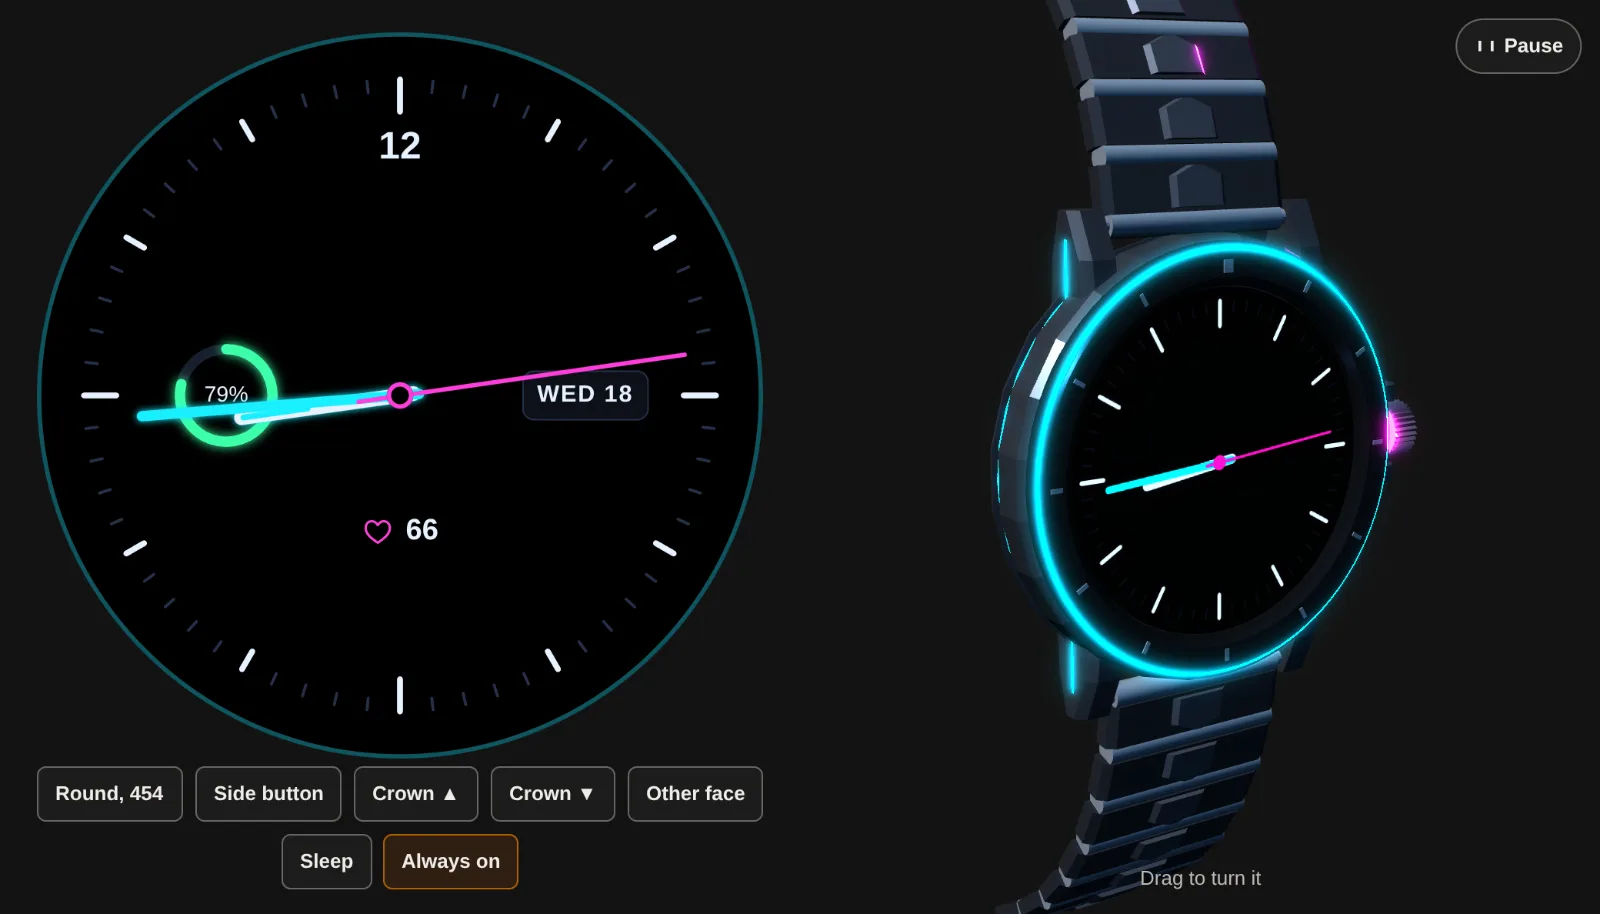
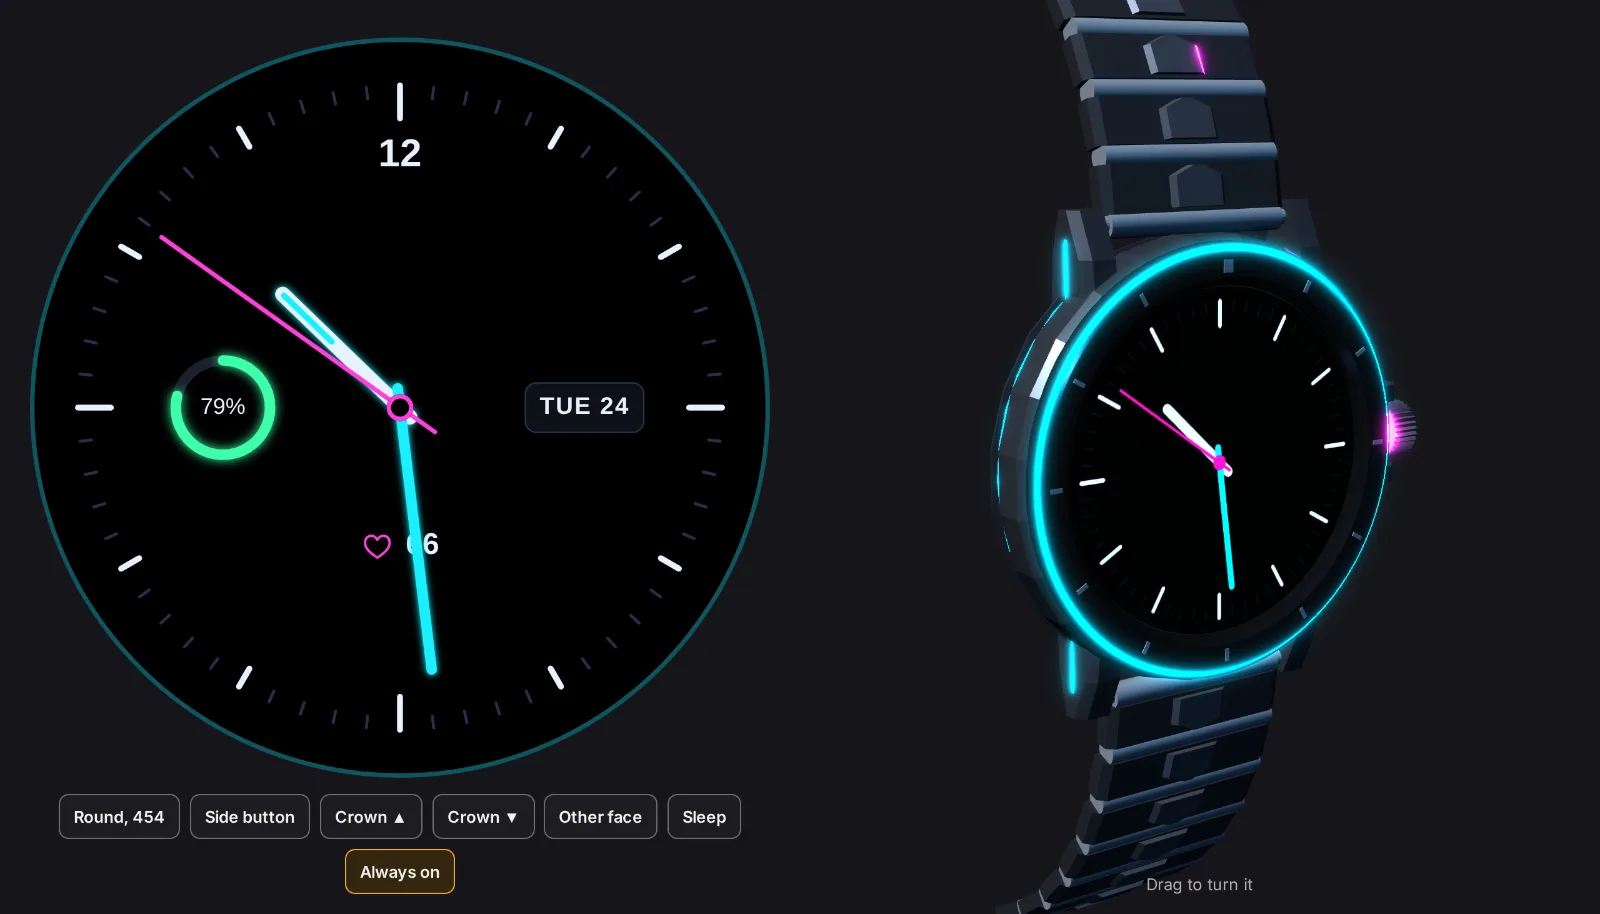
site: the front page shows the watch in 3D instead of the lighthouse
Its pictures are regenerated without the stale Pause baked in, and the
copy around it says what the reader can do with the watch.

diff --git a/site-ljos/bundle/Site/Landing.qml b/site-ljos/bundle/Site/Landing.qml
@@ -10,8 +10,8 @@ import "../nav.js" as Nav
 
 // The front page, read top to bottom: what Ljós is and a replay that
 // shows it, what that means for agents with a live app to drive, a shell
-// the reader changes here, TypeScript and the rest in a card each, a 3D
-// demo, how the project works, and where to go next.
+// the reader changes here, TypeScript and the rest in a card each, a
+// smartwatch in 3D, how the project works, and where to go next.
 // Existing QML is named once, as the way in; the porting page tells
 // that story. The words are the page's; how they stand (the hero beside
 // its live app, the sections on the grid, rising in as they are first
@@ -209,12 +209,14 @@ Column {
             wide: landing.wide
             eyebrow: t`Live in the page`
             title: t`See it run`
-            body: t`Once this 3D scene runs, drag to look around, and scroll or pinch to zoom. The <a href="/demos/">live demos</a> have more, including a car cockpit and a smartwatch you can edit. Each keeps a picture and its description where the browser lacks the WebAssembly or WebGL 2 it needs.`
+            body: t`A smartwatch's software beside the watch in 3D. Once it runs, swipe or tap the face, and drag the watch to turn it. The <a href="/demos/">live demos</a> have more, and the <a href="/demos/watch/">watch's own page</a> lets you edit every file. Where the browser lacks the WebAssembly or WebGL 2 it needs, a picture stands in.`
             onFollowed: (link) => landing.follow(link)
 
-            // The showcase mounts here: a 3D scene to orbit, made once the
-            // reader presses its Run, its picture standing until then — and
-            // for good where the browser cannot run it.
+            // The showcase mounts here: Kestrel, the watch of the demos
+            // page, made once the reader presses its Run, its picture
+            // standing until then, and for good where the browser cannot
+            // run it. Its pictures are the watch page's (Demos/pro.json),
+            // the compact ones where the watch stacks on a narrow page.
             Slot {
                 name: "showcase"
                 delegate: Component {
@@ -222,11 +224,12 @@ Column {
                         width: seeItRun.exampleWidth
                         scroller: landing.scroller
                         needs: "webgl2"
-                        picture: "/pictures/demo-orbit.webp"
-                        pictureDark: "/pictures/demo-orbit-dark.webp"
-                        what: t`the 3D demo`
-                        description: t`A lit 3D scene of shapes on a floor. Drag to turn it.`
-                        source: Later.orbit
+                        aspect: landing.wide ? 640 / 1120 : 992 / 640
+                        picture: landing.wide ? "/pictures/demo-watch.webp" : "/pictures/demo-watch-compact.webp"
+                        pictureDark: landing.wide ? "/pictures/demo-watch-dark.webp" : "/pictures/demo-watch-compact-dark.webp"
+                        what: t`the watch`
+                        description: t`A round smartwatch face with neon rings beside the same watch in 3D, in its case on a linked band, its screen's ring glowing.`
+                        source: Later.watch
                     }
                 }
             }

diff --git a/site-ljos/e2e/demos.spec.js b/site-ljos/e2e/demos.spec.js
@@ -1,4 +1,4 @@
-// The demos: the front page's Pantry and Orbit, and /demos/' five,
+// The demos: the front page's Pantry and watch, and /demos/' five,
 // each driven by the input it is for. A demo is the slot under its
 // heading. The Pantry runs with the page, as a plain example would: it
 // holds still, and its shell is the one compiled with the page. The
@@ -243,13 +243,13 @@ test.describe("/demos/", () => {
 });
 
 test.describe("the front page", () => {
-  test("loads with nothing in its console; the Pantry and Orbit run", async ({ page, errors }) => {
+  test("loads with nothing in its console; the Pantry and the watch run", async ({ page, errors }) => {
     await settled(page, "/");
-    const button = runButton(page, "Run the 3D demo");
+    const button = runButton(page, "Run the watch");
     await press(button);
-    await expect(button, "Run starts Orbit").toBeHidden();
+    await expect(button, "Run starts the watch").toBeHidden();
     await expect(page.getByLabel("The Pantry, running")).toBeVisible();
-    // Orbit is made as the reader nears the showcase under this heading.
+    // The watch is made as the reader nears the showcase under this heading.
     await centre(headingOf(page, "See it run"));
     const canvas = page.locator("canvas.qq-view3d").first();
     await centre(canvas);

diff --git a/site-ljos/tests/no-run.spec.js b/site-ljos/tests/no-run.spec.js
@@ -5,7 +5,7 @@
 import { expect, test } from "@playwright/test";
 
 const FRAMED = {
-  "/": { "the 3D demo": "webgl2" },
+  "/": { "the watch": "webgl2" },
   "/demos/": { "the 3D demo": "webgl2", "the shader demo": "webgl2", "the field guide": "wasm", "the motion demo": "wasm" },
   "/demos/cockpit/": { "the cockpit": "webgl2 wasm" },
   "/demos/watch/": { "the watch": "webgl2" },
@@ -13,10 +13,10 @@ const FRAMED = {
 // What each page has next under a demo's frame, words in its text: a demo's
 // own page says what it is above the frame, and how to use it below.
 // The words that come after each demo's frame. On the front page the
-// 3D demo's own words stand before it (Elegant's Capability), so the
+// watch's own words stand before it (Elegant's Capability), so the
 // next words after it are the section below's headline.
 const FOLLOWS = {
-  "/": { "the 3D demo": "Built together" },
+  "/": { "the watch": "Built together" },
   "/demos/": { "the 3D demo": "A shader effect", "the shader demo": "A whole app", "the field guide": "Motion", "the motion demo": null },
   "/demos/cockpit/": { "the cockpit": "Its files" },
   "/demos/watch/": { "the watch": "Wear it with the pointer" },

diff --git a/site-ljos/tests/design.spec.js b/site-ljos/tests/design.spec.js
@@ -320,9 +320,10 @@ for (const [route, demos] of [
           // Its frame's shape, inside the frame's edge: 420 by 720 for a
           // demo framed in the page; a pro demo's own (Demos/pro.json,
           // its compact shape for a -compact picture), on its card with
-          // no edge.
+          // no edge, or framed with one where the front page shows it.
           const pro = proDemos.flatMap(picturesOf).find(({ file }) => file === picture.file);
-          const [tall, wide, edge] = pro ? [pro.height, pro.width, 0] : [420, 720, 2];
+          const [tall, wide] = pro ? [pro.height, pro.width] : [420, 720];
+          const edge = pro && route !== "/" ? 0 : 2;
           expect(Math.abs(picture.height - Math.round(((picture.width + edge) * tall) / wide) + edge), picture.file).toBeLessThanOrEqual(1);
           expect(picture.width, picture.file).toBeGreaterThan(300);
         }

diff --git a/site-ljos/tests/fit.spec.js b/site-ljos/tests/fit.spec.js
@@ -395,7 +395,7 @@ for (const [size, viewport] of SIZES) {
     test("the landing's showcase stays inside its frame", async ({ page }) => {
       await page.goto("/");
       await page.waitForSelector('#app[data-ljos-hydrated="true"]');
-      const pause = await runDemo(page, "the 3D demo");
+      const pause = await runDemo(page, "the watch");
       await expect.poll(() => fits(pause), { message: `the showcase at ${size} width stands inside its frame` }).toEqual([]);
     });
   });

diff --git a/site-ljos/bundle/Demos/later.js b/site-ljos/bundle/Demos/later.js
@@ -6,6 +6,7 @@
 // shader's) would then be in the files every page loads first.
 
 function orbit() { return import("./Orbit.qml"); }
+function watch() { return import("./WatchDemo.qml"); }
 function shader() { return import("./Shader.qml"); }
 function fieldGuide() { return import("./FieldGuide.qml"); }
 function motion() { return import("./Motion.qml"); }
